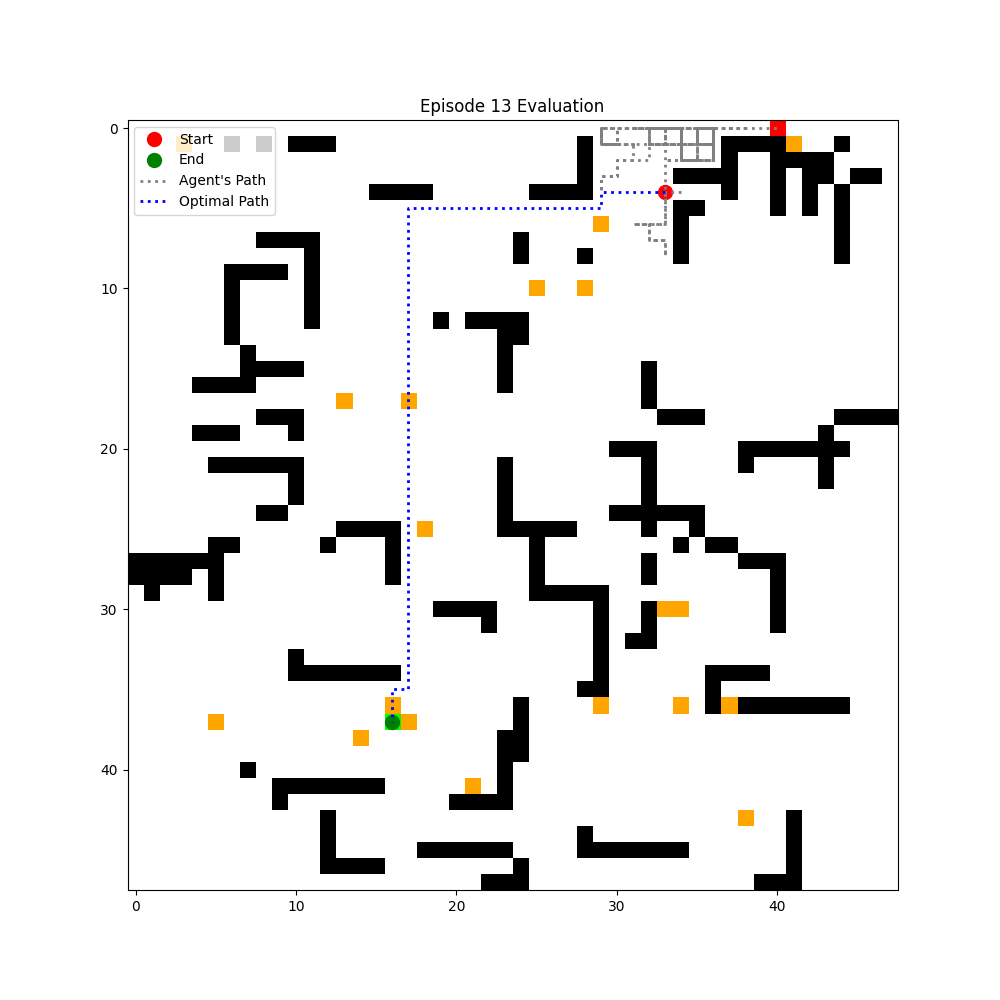
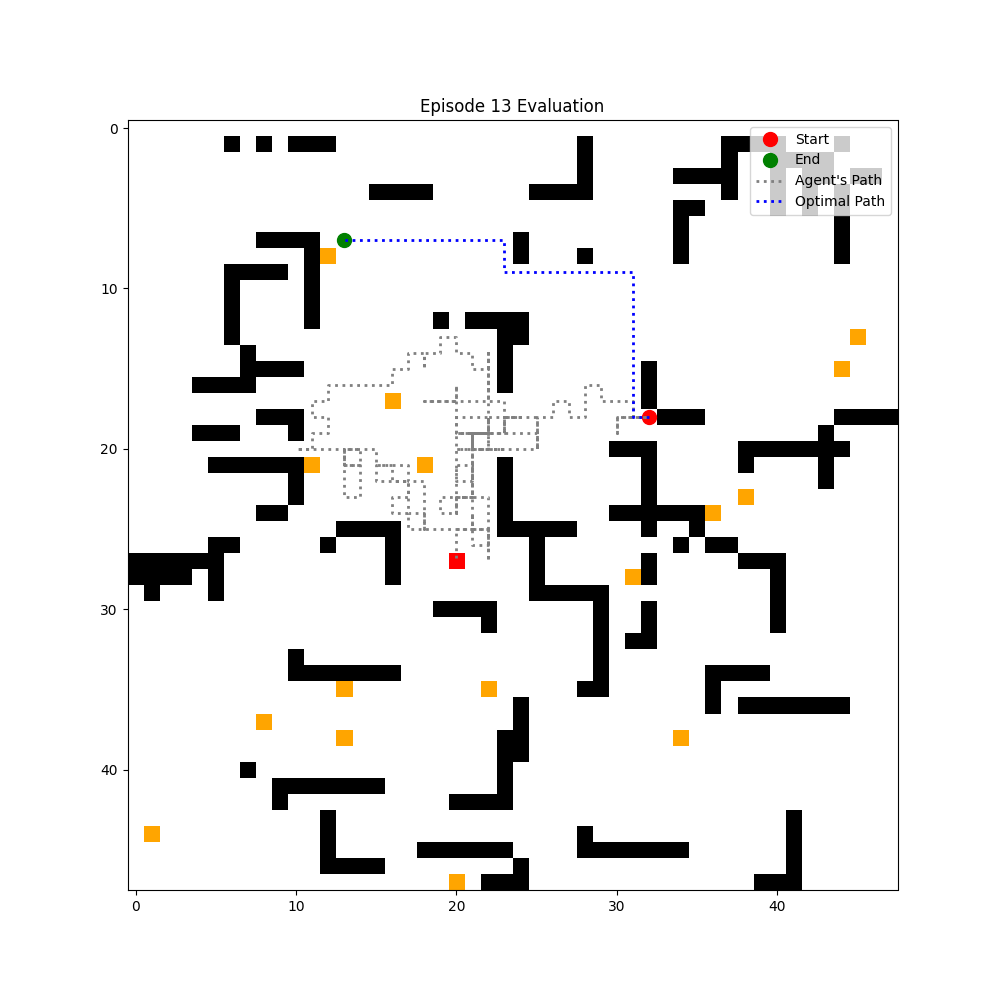
fixed dyn object update

diff --git a/WarehouseEnv.py b/WarehouseEnv.py
@@ -9,7 +9,7 @@ import imageio
 import pygame
 from collections import deque
 import torch
-import time
+from utils import calculate_max_steps
 
 def manhattan_distance(x_st, y_st, x_end, y_end):
     return abs(x_end - x_st) + abs(y_end - y_st)
@@ -48,13 +48,15 @@ class WarehouseEnvironment:
         self.init_arr = []
         # Array for dynamic objects
         self.dynamic_coords = []
+        self.stays = []
         self.collisions = 0
         self.last_action = 4
 
         # Agent reached end position count 
         self.arrived = 0
         self.episode_count = 0
-        self.decay = 8
+        self.max_step = 42
+       
 
         self.frames = []  # To store frames for .gif visualization
 
@@ -64,21 +66,33 @@ class WarehouseEnvironment:
 
     
     def reset(self):
-        # reset step count for maximum timesteps
-        self.steps = 0
-        # Initialize all dynamic obstacles
-        self.dynamic_coords, self.init_arr = initialize_objects(self.map_img_arr, self.amr_count)
+        # Increment the episode count
+        self.episode_count += 1
         
-        if self.init_arr is None or self.init_arr.size == 0:
-            raise ValueError("Initialization failed, init_arr is empty or None")
+        # Reset step count for maximum timesteps
+        self.steps = 0
+        
+        # Generate new coordinates and paths every 50 episodes
+        if self.episode_count % 50 == 1:
+            # Initialize all dynamic obstacles
+            self.dynamic_coords, self.init_arr = initialize_objects(self.map_img_arr, self.amr_count)
+            
+            if self.init_arr is None or self.init_arr.size == 0:
+                raise ValueError("Initialization failed, init_arr is empty or None")
 
-        # Generate destinations and routes
-        self.generate_end_points_and_paths()
-       
+            # Generate destinations and routes
+            self.generate_end_points_and_paths()
+        else:
+            # If not generating new paths, reset the init_arr to its original state
+            self.init_arr = self.map_img_arr.copy()
+            
+            # Reset dynamic obstacles to their initial positions
+            for idx, path in enumerate(self.dynamic_coords):
+                initial_pos = path[0]
+                self.init_arr[initial_pos[0], initial_pos[1]] = [255, 165, 0]  # Orange color for dynamic obstacles
+        
         # The dynamic obstacle corresponding to agent_idx is regarded as the controlled agent
         self.agent_prev_coord = self.dynamic_coords[self.agent_idx][0]  # Take the first position of the path
-        # print(self.agent_prev_coord)
-
         # The agent is modified to red
         self.init_arr[self.agent_prev_coord[0], self.agent_prev_coord[1]] = [255, 0, 0]  # Mark the agent's initial position in red
         
@@ -89,6 +103,8 @@ class WarehouseEnvironment:
         # initialization state
         reset_state = self.dynamic_coords[self.agent_idx]
         
+        # calc maximum steps
+        self.max_step = calculate_max_steps(self.agent_path_len)
         # initial distance
         start = reset_state[0]
         end = reset_state[-1]
@@ -104,21 +120,7 @@ class WarehouseEnvironment:
         # Take initial step to get the first real observation
         graphical_state, _, _, _ = self.step(4)  # Assuming 4 is a valid initial action
 
-        # Increment the episode count
-        self.episode_count += 1
-
         return start[0] * start[1], graphical_state
-    
-
-    def get_stacked_state(self):
-        # Ensure we have exactly Nt observations
-        assert len(self.observation_history) == self.Nt, f"Expected {self.Nt} observations, but got {len(self.observation_history)}"
-        
-        # Stack the observations along the second axis (axis=1)
-        stacked_state = np.concatenate(list(self.observation_history), axis=1)
-
-        return stacked_state
-    
 
     def step(self, action):
         self.steps += 1
@@ -135,11 +137,11 @@ class WarehouseEnvironment:
 
         # Update coordinates 
         local_obs, local_map, self.global_mapper_arr, isAgentDone, rewards, \
-        self.cells_skipped, self.init_arr, new_agent_coord, self.dist, reached_goal, self.collisions = \
+        self.cells_skipped, self.init_arr, new_agent_coord, self.dist, reached_goal, self.collisions, self.stays = \
         update_coords(
             self.dynamic_coords, self.init_arr, self.agent_idx, self.time_idx,
             self.local_fov, self.global_mapper_arr, [x,y], self.agent_prev_coord,
-            self.cells_skipped, self.dist, self.agent_goal, self.collisions
+            self.cells_skipped, self.dist, self.agent_goal, self.collisions, self.stays
         )
 
         self.agent_prev_coord = new_agent_coord
@@ -151,15 +153,7 @@ class WarehouseEnvironment:
             print("No global guidance")
             isAgentDone = True 
 
-        # maximum allowed steps for a single epoch
-       
-        if self.episode_count % 10000 == 0:
-            self.decay -= 1
-            # print("entered")
-        if self.decay < 3: 
-            self.decay = 3
-            # print("entered")
-        if self.steps > self.agent_path_len * self.decay:
+        if self.steps > self.max_step:
             # print(f"Max steps reached with steps: {self.steps} for path length: {self.agent_path_len}, decay: {self.decay}")
             isAgentDone = True 
 
@@ -189,6 +183,15 @@ class WarehouseEnvironment:
             return_values = (stacked_state, self.agent_prev_coord[0] * self.agent_prev_coord[1], rewards, isAgentDone)
         
         return return_values
+    
+    def get_stacked_state(self):
+        # Ensure we have exactly Nt observations
+        assert len(self.observation_history) == self.Nt, f"Expected {self.Nt} observations, but got {len(self.observation_history)}"
+        
+        # Stack the observations along the second axis (axis=1)
+        stacked_state = np.concatenate(list(self.observation_history), axis=1)
+
+        return stacked_state
     
     def get_action_mask(self, device):
         """Return a mask of valid actions, where 1 indicates a valid action and 0 indicates an invalid action."""

diff --git a/dynamic_obstacle.py b/dynamic_obstacle.py
@@ -36,7 +36,7 @@ def manhattan_distance(x_st, y_st, x_end, y_end):
     return abs(x_end - x_st) + abs(y_end - y_st)
 
 # Function to update the coordinates of the agent and dynamic obstacles
-def update_coords(coords, inst_arr, agent, time_idx, width, global_map, direction, agent_old_coordinates, cells_skipped, dist, agent_goal, collision_count):
+def update_coords(coords, inst_arr, agent, time_idx, width, global_map, direction, agent_old_coordinates, cells_skipped, dist, agent_goal, collision_count, stayed_array):
     
     """ 
     Update coordinates
@@ -101,6 +101,8 @@ def update_coords(coords, inst_arr, agent, time_idx, width, global_map, directio
     if new_dist < dist:
         dist = new_dist
 
+    if time_idx == 1:
+        stayed_array = np.zeros(20, dtype=int)
     # At reset state objects don't move
     if time_idx != 1: 
         # Update dynamic obstacles
@@ -108,8 +110,8 @@ def update_coords(coords, inst_arr, agent, time_idx, width, global_map, directio
             if idx == agent:
                 continue  # Skip the agent, we'll update it separately
             if time_idx < len(path) + 1:
-                h_old_obs, w_old_obs = path[time_idx-2]
-                h_new_obs, w_new_obs = path[time_idx-1]
+                h_old_obs, w_old_obs = path[time_idx-2-stayed_array[idx]]
+                h_new_obs, w_new_obs = path[time_idx-1-stayed_array[idx]]
             else:
                 continue  # Skip obstacles that have reached their goal
 
@@ -118,6 +120,7 @@ def update_coords(coords, inst_arr, agent, time_idx, width, global_map, directio
                         not np.array_equal(inst_arr[h_new_obs, w_new_obs], [255, 255, 255]))
 
             if is_occupied:
+                stayed_array[idx] += 1
                 if random.random() < 0.9:
                     # Stay in current position
                     h_new_obs, w_new_obs = h_old_obs, w_old_obs
@@ -148,7 +151,7 @@ def update_coords(coords, inst_arr, agent, time_idx, width, global_map, directio
     global_map[h_old, w_old] = 255
     local_map = global_map[max(0, h_new - width):min(h - 1, h_new + width), max(0, w_new - width):min(w - 1, w_new + width)]
 
-    return np.array(local_obs), np.array(local_map), global_map, agentDone, agent_reward, cells_skipped, inst_arr, [h_new, w_new], dist, arrived, collision_count
+    return np.array(local_obs), np.array(local_map), global_map, agentDone, agent_reward, cells_skipped, inst_arr, [h_new, w_new], dist, arrived, collision_count, stayed_array
 
 
 def rewards_dict(case, N = 0):

diff --git a/utils.py b/utils.py
@@ -1,4 +1,5 @@
 import numpy as np
+import math
  
 # TODO : check this method is local guidance correctly padded to the rgb chanels 
 def symmetric_pad_array(input_array: np.ndarray, target_shape: tuple, pad_val: int) -> np.ndarray:
@@ -18,3 +19,27 @@ def symmetric_pad_array(input_array: np.ndarray, target_shape: tuple, pad_val: i
 
 def manhattan_distance(x_st, y_st, x_end, y_end):
     return abs(x_end - x_st) + abs(y_end - y_st)
+
+def calculate_max_steps(path_len):
+    min_path_length = 1
+    max_path_length = 100
+    min_steps = 42
+    max_steps = 516
+
+    if path_len <= min_path_length:
+        return min_steps
+    elif path_len >= max_path_length:
+        return max_steps
+
+    # Normalize the path length to a value between 0 and 1
+    normalized_length = (path_len - min_path_length) / (max_path_length - min_path_length)
+
+    # Use a combination of logarithmic and power functions with adjusted parameters
+    log_component = math.log(1 + 5 * normalized_length) / math.log(6)
+    power_component = normalized_length ** 0.8
+
+    # Combine the components with adjusted weights
+    combined = 0.7 * log_component + 0.3 * power_component
+
+    # Scale to our desired range and round to nearest integer
+    return round(min_steps + (max_steps - min_steps) * combined)

diff --git a/main.py b/main.py
@@ -13,7 +13,7 @@ python3 main.py --render off --method mppo --epochs 100000 --timesteps 1000 --me
 
 python3 main.py --render off --method dqn --epochs 100000 --timesteps 33 --metal cuda --train retrain --model_weights weights/dqn_model_cuda_czm_1.pth --batch 32 --train_name czm_1 --cmd_log 5
 
-python3 main.py --render off --method mppo --epochs 100000 --timesteps 1000 --metal cuda --seed 16 --train retrain --model_weights weights/ppo_model_cuda_czm_ppo.pth --batch 512 --train_name czm_ppo --cmd_log 5
+python3 main.py --render on --method mppo --epochs 100000 --timesteps 1000 --metal cpu --seed 16 --train scratch --batch 32 --train_name czm_ppo --cmd_log 5
 '''
 
 if __name__ == '__main__':

diff --git a/maskPPO.py b/maskPPO.py
@@ -36,7 +36,7 @@ class MaskPPOAgent:
             action_probs = torch.softmax(action_logits, dim=-1)
 
             mask = self.env.get_action_mask(self.device)
-            # print(f"Action probabilities before masking: {action_probs}")
+            # print(f"Action probabilities before masking: {action_probs}")
             # print(f"Action mask: {mask}")
             action_probs = action_probs * mask
             # print(f"Action probabilities after masking: {action_probs}")

diff --git a/test_eval.py b/test_eval.py
@@ -27,7 +27,7 @@ def test_agent(env, agent, num_episodes=100):
 if __name__ == '__main__':
     try:
         # Set up the environment
-        env = WarehouseEnvironment(pygame_render = False)
+        env = WarehouseEnvironment(pygame_render = True)
         _, state = env.reset() # image of first reset
 
         print(state.shape)
